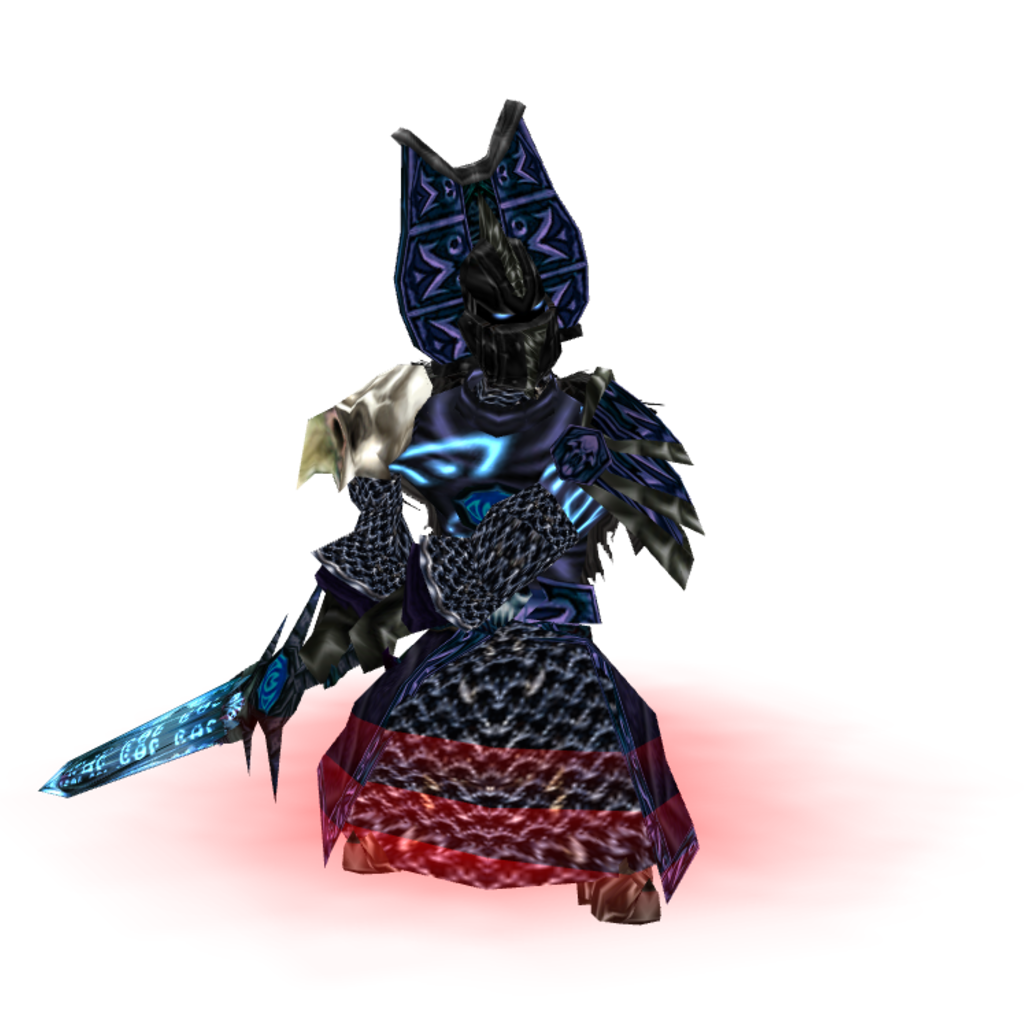
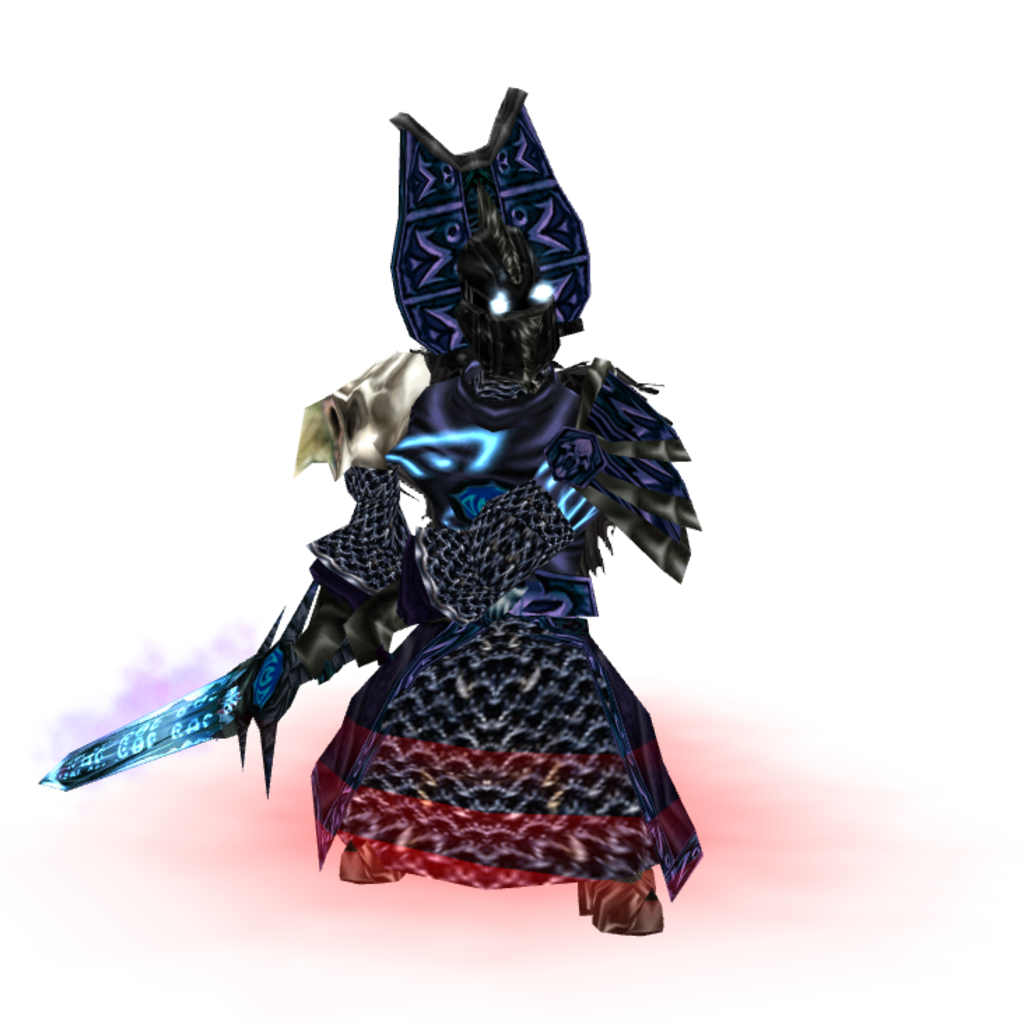
Publish corrected Champion card pictures

Changed region(s): [[0.0312, 0.0625, 0.75, 0.9375]]

diff --git a/model/aspiring-champion-of-tzeentch-hero/index.html b/model/aspiring-champion-of-tzeentch-hero/index.html
@@ -5,7 +5,7 @@
 <meta property="og:title" content="Aspiring Champion of Tzeentch">
 <meta property="og:description" content="Preview and download the Aspiring Champion of Tzeentch Hero model for Warcraft III and WarhammerCraft.">
 <meta property="og:url" content="https://www.lowpolyworks.com/model/aspiring-champion-of-tzeentch-hero/">
-<meta property="og:image" content="https://www.lowpolyworks.com/thumbs/unit-aspiring-champion-of-tzeentch-hero.png?v=20261108-tzeentch-champion01">
+<meta property="og:image" content="https://www.lowpolyworks.com/thumbs/unit-aspiring-champion-of-tzeentch-hero.png?v=20261108-champion-emitters">
 <meta property="og:image:type" content="image/png">
 <meta property="og:image:width" content="1024">
 <meta property="og:image:height" content="1024">
@@ -13,7 +13,7 @@
 <meta name="twitter:card" content="summary_large_image">
 <meta name="twitter:title" content="Aspiring Champion of Tzeentch">
 <meta name="twitter:description" content="Preview and download the Aspiring Champion of Tzeentch Hero model for Warcraft III and WarhammerCraft.">
-<meta name="twitter:image" content="https://www.lowpolyworks.com/thumbs/unit-aspiring-champion-of-tzeentch-hero.png?v=20261108-tzeentch-champion01">
+<meta name="twitter:image" content="https://www.lowpolyworks.com/thumbs/unit-aspiring-champion-of-tzeentch-hero.png?v=20261108-champion-emitters">
 </head>
 <body class="journal"><header class="masthead"><a class="brand lowpolyworks-brand" href="#feed" aria-label="LowPolyWorks"><svg class="lowpolyworks-art" viewBox="0 0 1695 951" width="1695" height="951" aria-hidden="true" style="overflow:visible" xmlns="http://www.w3.org/2000/svg">
   <defs>

diff --git a/model/aspiring-champion-of-tzeentch/index.html b/model/aspiring-champion-of-tzeentch/index.html
@@ -5,7 +5,7 @@
 <meta property="og:title" content="Aspiring Champion of Tzeentch">
 <meta property="og:description" content="Preview and download the Aspiring Champion of Tzeentch Unit model for Warcraft III and WarhammerCraft.">
 <meta property="og:url" content="https://www.lowpolyworks.com/model/aspiring-champion-of-tzeentch/">
-<meta property="og:image" content="https://www.lowpolyworks.com/thumbs/unit-aspiring-champion-of-tzeentch.png?v=20261108-tzeentch-champion01">
+<meta property="og:image" content="https://www.lowpolyworks.com/thumbs/unit-aspiring-champion-of-tzeentch.png?v=20261108-champion-emitters">
 <meta property="og:image:type" content="image/png">
 <meta property="og:image:width" content="1024">
 <meta property="og:image:height" content="1024">
@@ -13,7 +13,7 @@
 <meta name="twitter:card" content="summary_large_image">
 <meta name="twitter:title" content="Aspiring Champion of Tzeentch">
 <meta name="twitter:description" content="Preview and download the Aspiring Champion of Tzeentch Unit model for Warcraft III and WarhammerCraft.">
-<meta name="twitter:image" content="https://www.lowpolyworks.com/thumbs/unit-aspiring-champion-of-tzeentch.png?v=20261108-tzeentch-champion01">
+<meta name="twitter:image" content="https://www.lowpolyworks.com/thumbs/unit-aspiring-champion-of-tzeentch.png?v=20261108-champion-emitters">
 </head>
 <body class="journal"><header class="masthead"><a class="brand lowpolyworks-brand" href="#feed" aria-label="LowPolyWorks"><svg class="lowpolyworks-art" viewBox="0 0 1695 951" width="1695" height="951" aria-hidden="true" style="overflow:visible" xmlns="http://www.w3.org/2000/svg">
   <defs>

diff --git a/model/khorne-flail-unit/index.html b/model/khorne-flail-unit/index.html
@@ -5,7 +5,7 @@
 <meta property="og:title" content="Knight of Khorne · Champion">
 <meta property="og:description" content="Preview and download the Knight of Khorne Champion model for Warcraft 3. Add a Warhammer Fantasy Chaos champion to your custom army.">
 <meta property="og:url" content="https://www.lowpolyworks.com/model/khorne-flail-unit/">
-<meta property="og:image" content="https://www.lowpolyworks.com/thumbs/unit-khorne-flail-unit.png?v=20261104-flail-final">
+<meta property="og:image" content="https://www.lowpolyworks.com/thumbs/unit-khorne-flail-unit.png?v=20261108-champion-emitters">
 <meta property="og:image:type" content="image/png">
 <meta property="og:image:width" content="1024">
 <meta property="og:image:height" content="1024">
@@ -13,7 +13,7 @@
 <meta name="twitter:card" content="summary_large_image">
 <meta name="twitter:title" content="Knight of Khorne · Champion">
 <meta name="twitter:description" content="Preview and download the Knight of Khorne Champion model for Warcraft 3. Add a Warhammer Fantasy Chaos champion to your custom army.">
-<meta name="twitter:image" content="https://www.lowpolyworks.com/thumbs/unit-khorne-flail-unit.png?v=20261104-flail-final">
+<meta name="twitter:image" content="https://www.lowpolyworks.com/thumbs/unit-khorne-flail-unit.png?v=20261108-champion-emitters">
 </head>
 <body class="journal"><header class="masthead"><a class="brand lowpolyworks-brand" href="#feed" aria-label="LowPolyWorks"><svg class="lowpolyworks-art" viewBox="0 0 1695 951" width="1695" height="951" aria-hidden="true" style="overflow:visible" xmlns="http://www.w3.org/2000/svg">
   <defs>

diff --git a/model/khorne-flail/index.html b/model/khorne-flail/index.html
@@ -5,7 +5,7 @@
 <meta property="og:title" content="Knight of Khorne · Champion">
 <meta property="og:description" content="Preview and download the Knight of Khorne Champion model for Warcraft 3. Add a Warhammer Fantasy Chaos champion to your custom army.">
 <meta property="og:url" content="https://www.lowpolyworks.com/model/khorne-flail/">
-<meta property="og:image" content="https://www.lowpolyworks.com/thumbs/unit-khorne-flail.png?v=20261104-flail-final">
+<meta property="og:image" content="https://www.lowpolyworks.com/thumbs/unit-khorne-flail.png?v=20261108-champion-emitters">
 <meta property="og:image:type" content="image/png">
 <meta property="og:image:width" content="1024">
 <meta property="og:image:height" content="1024">
@@ -13,7 +13,7 @@
 <meta name="twitter:card" content="summary_large_image">
 <meta name="twitter:title" content="Knight of Khorne · Champion">
 <meta name="twitter:description" content="Preview and download the Knight of Khorne Champion model for Warcraft 3. Add a Warhammer Fantasy Chaos champion to your custom army.">
-<meta name="twitter:image" content="https://www.lowpolyworks.com/thumbs/unit-khorne-flail.png?v=20261104-flail-final">
+<meta name="twitter:image" content="https://www.lowpolyworks.com/thumbs/unit-khorne-flail.png?v=20261108-champion-emitters">
 </head>
 <body class="journal"><header class="masthead"><a class="brand lowpolyworks-brand" href="#feed" aria-label="LowPolyWorks"><svg class="lowpolyworks-art" viewBox="0 0 1695 951" width="1695" height="951" aria-hidden="true" style="overflow:visible" xmlns="http://www.w3.org/2000/svg">
   <defs>
